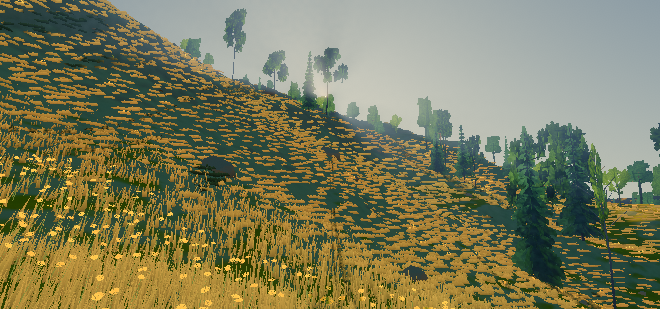
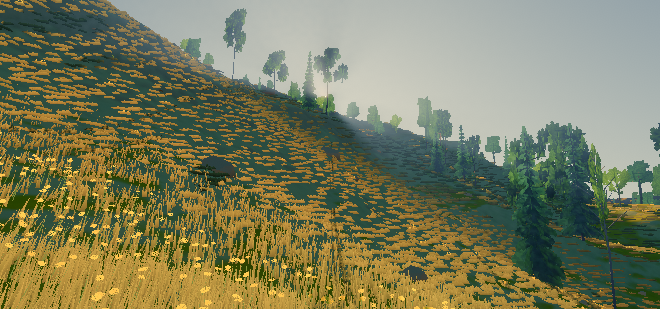
Clumps take their slope's light from nearer; low-Sun picture
Claude-Session: https://claude.ai/code/session_01XG1DZ6vKJWJCvxUHNSpiWP

diff --git a/src/life/grass.js b/src/life/grass.js
@@ -293,7 +293,7 @@ const CLUMP_VERT = /* glsl */`
     vec2 fc = floor((at + uTab.xy) / uTab.z);
     float h00 = texelFetch(tTable, ivec2(mod(fc, uTab.w)), 0).r;
     vec2 dh = (vec2(texelFetch(tTable, ivec2(mod(fc + vec2(1.0, 0.0), uTab.w)), 0).r, texelFetch(tTable, ivec2(mod(fc + vec2(0.0, 1.0), uTab.w)), 0).r) - h00) / uTab.z;
-    vSlope = vec4(normalize(uGrassUp - uGrassEast * dh.x - uGrassNorth * dh.y), smoothstep(18.0, 80.0, dist));
+    vSlope = vec4(normalize(uGrassUp - uGrassEast * dh.x - uGrassNorth * dh.y), smoothstep(12.0, 45.0, dist));
     vAlb = vec4(0.0, 0.0, 0.0, 1.0);
     gl_Position = projectionMatrix * viewMatrix * vec4(vRel, 1.0);
   }`;
